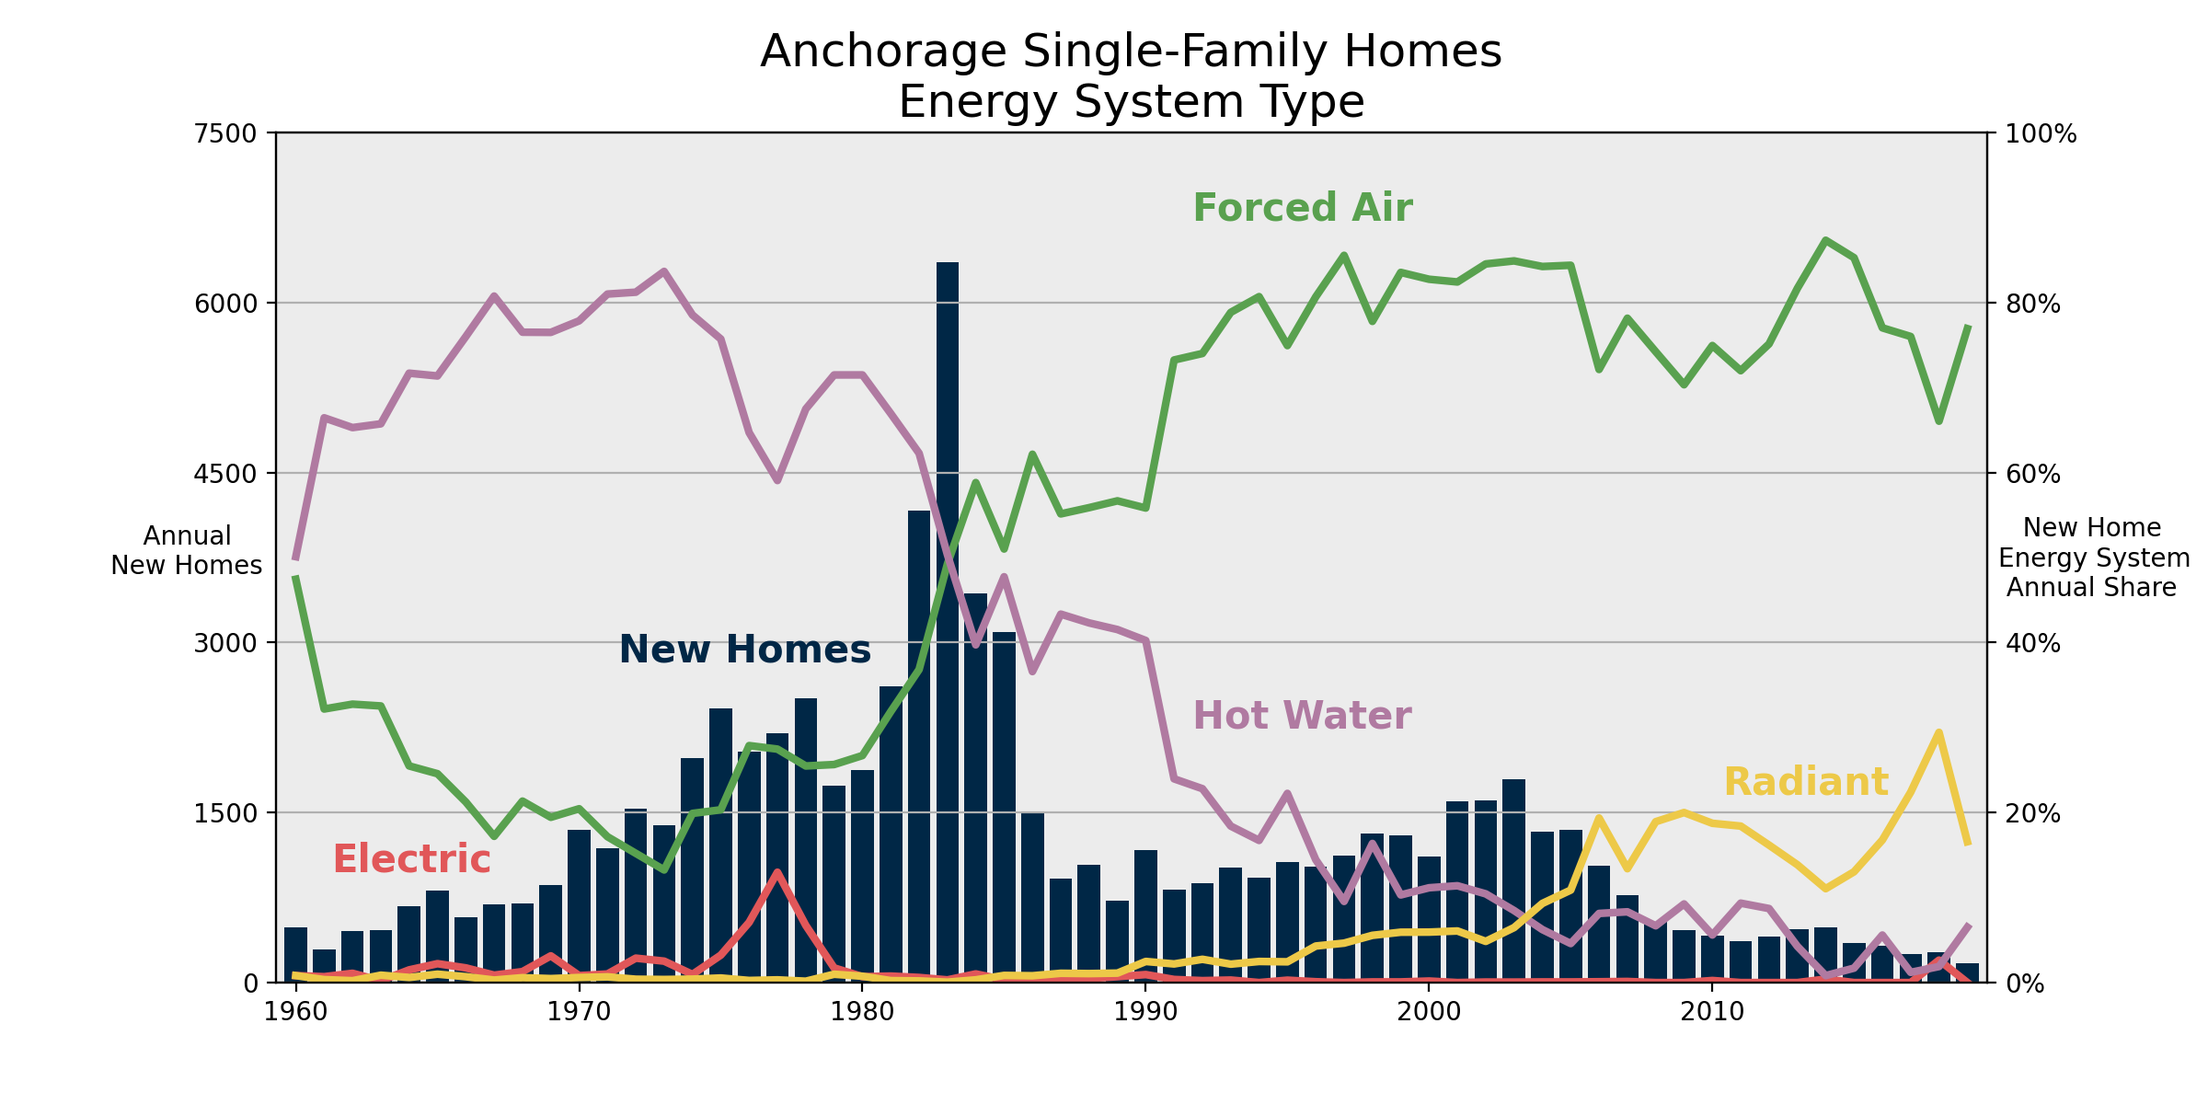
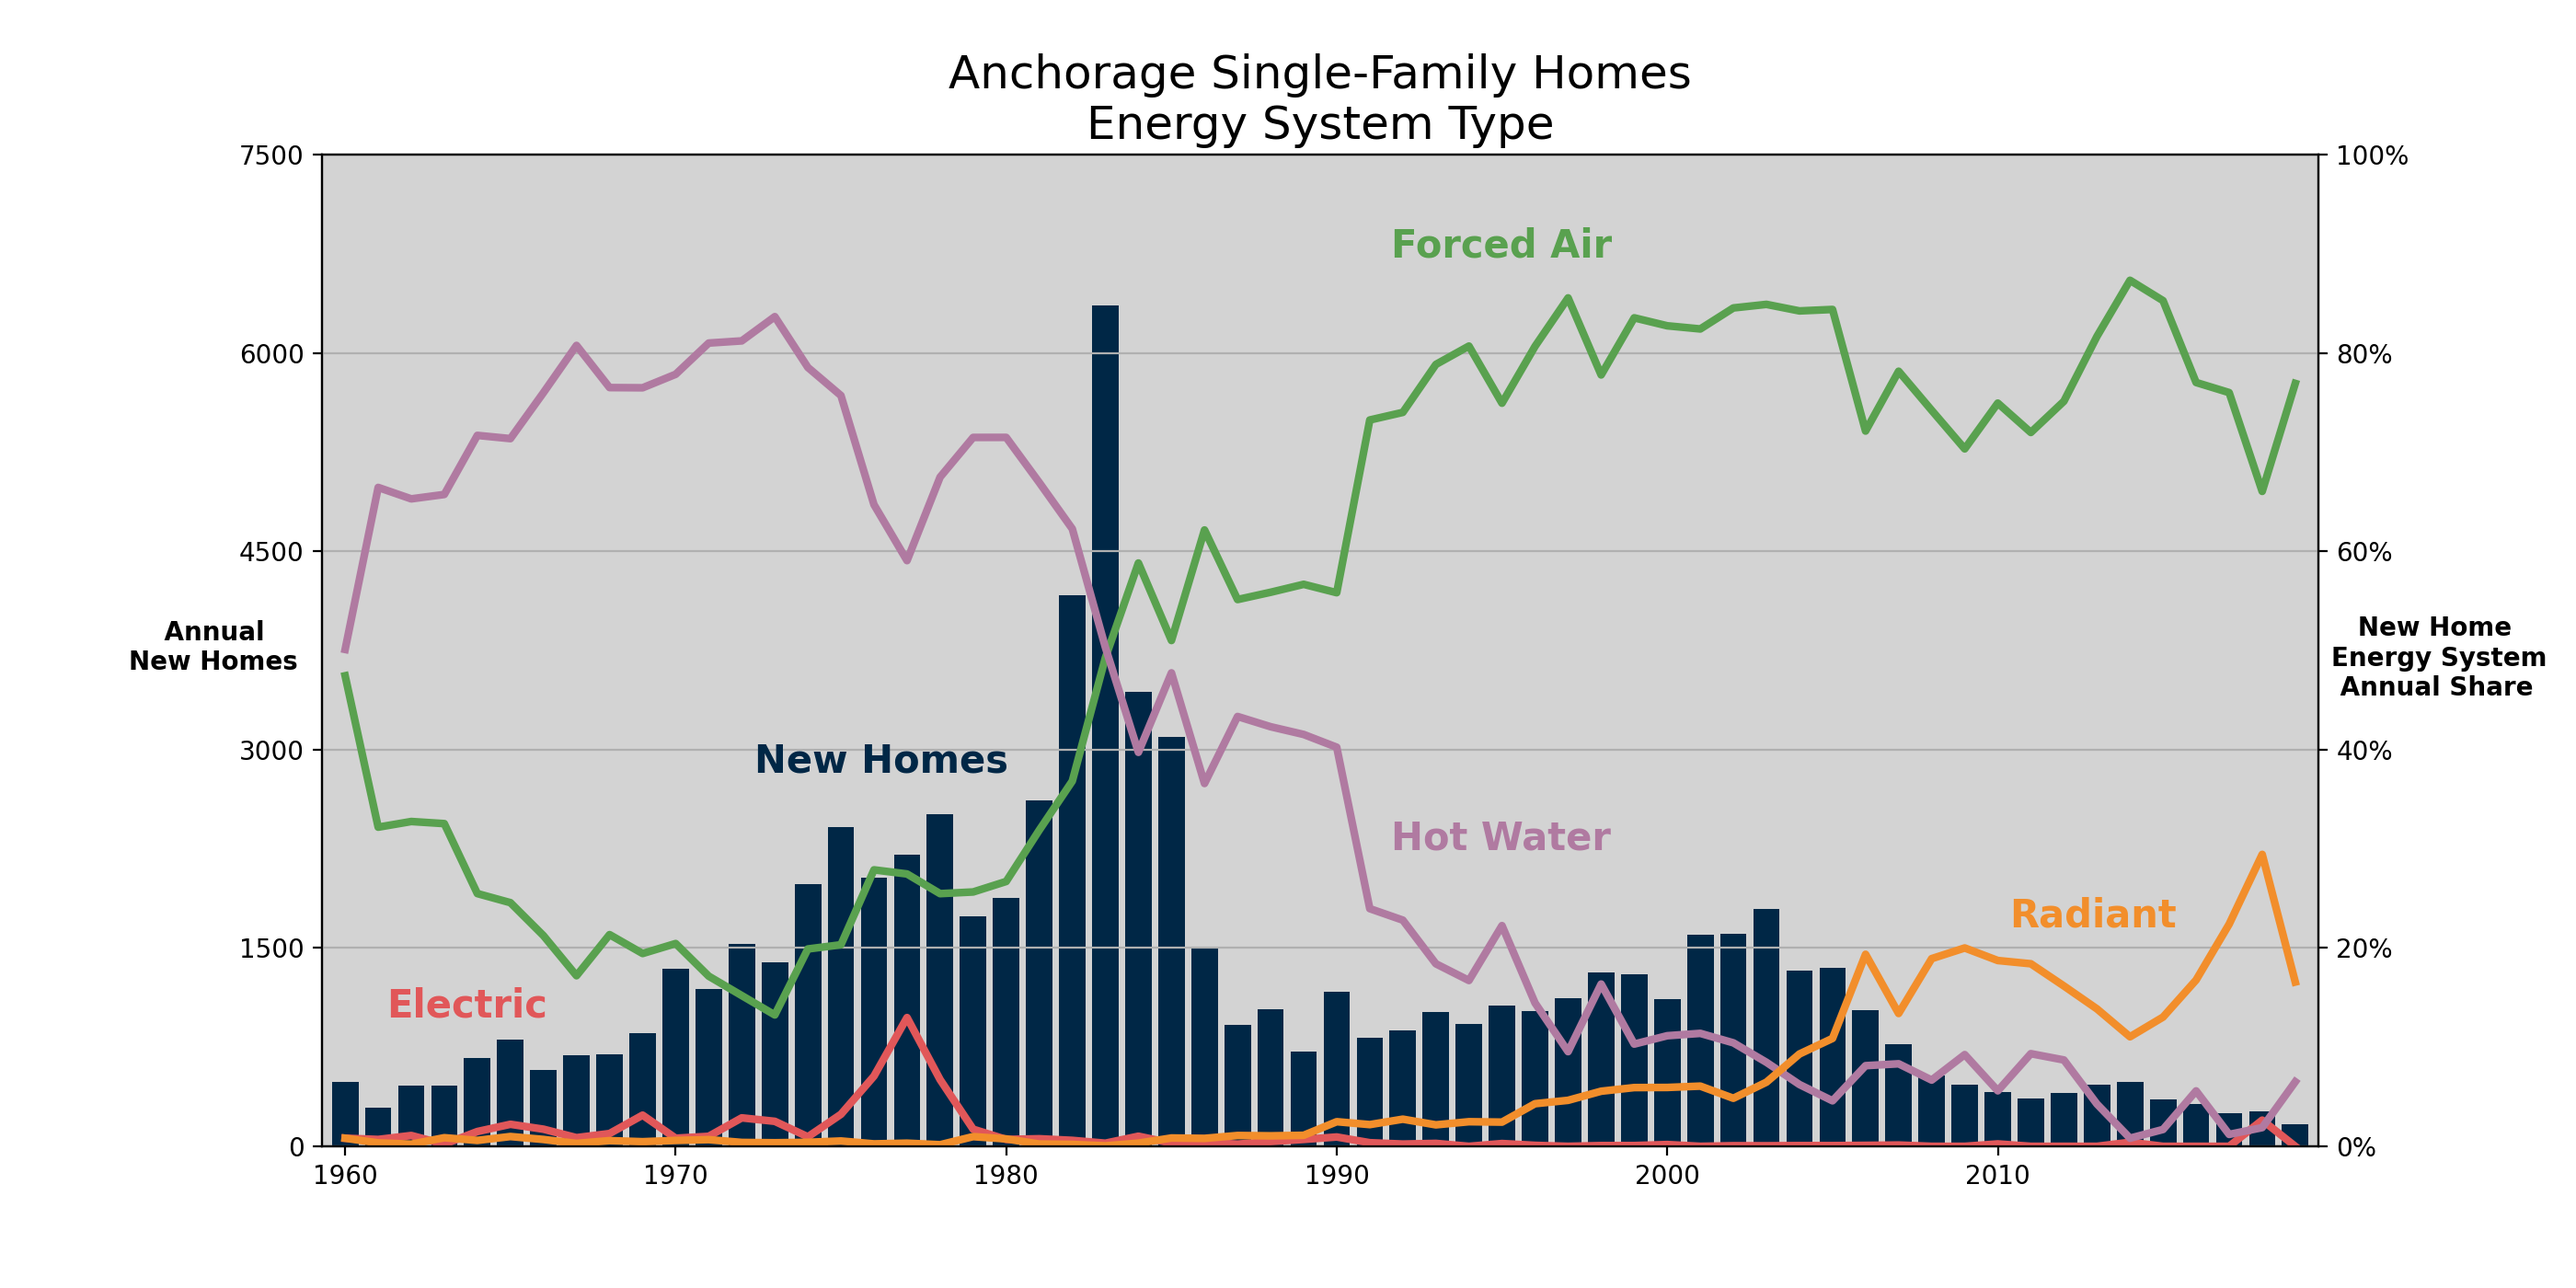
Add files via upload

diff --git a/py/main.py b/py/main.py
@@ -60,11 +60,16 @@ for i in range(len(df)):
 
 # plot year built graph
 
-fig, ax2 = plt.subplots(sharex=True, figsize=(12, 6))
+fig, ax2 = plt.subplots(sharex=True, figsize=(14, 7))
 
 
 linewidth = 3
 m_size = 15
+l_size = 12
+# gray = '#a9a9a9'
+# gray = '#ECECEC'
+# gray = '#c0c0c0'
+gray = '#d3d3d3'
 
 colors = ['#e15759', '#f28e2b', '#edc948',
           '#59a14f', '#76b7b2', '#4e79a7', '#b07aa1']
@@ -77,8 +82,10 @@ ax2.bar(year, count, color='#002746')
 
 ax1 = ax2.twinx()
 
+ax1.set_title(
+    'Anchorage Single-Family Homes\nEnergy System Type', size=18)
 
-ax2.set_facecolor('#ECECEC')
+ax2.set_facecolor(gray)
 ax1.plot(year, elec_count / count, label='Electric',
          color=colors[0], linewidth=linewidth)
 ax1.plot(year, fa_count / count, label='Forced Air',
@@ -86,9 +93,7 @@ ax1.plot(year, fa_count / count, label='Forced Air',
 ax1.plot(year, hw_count / count, label='Hot Water',
          color=colors[6], linewidth=linewidth)
 ax1.plot(year, r_count / count, label='Radiant',
-         color=colors[2], linewidth=linewidth)
-
-ax1.legend()
+         color=colors[1], linewidth=linewidth)
 
 plt.text(0.15, 0.21, 'Electric', weight='bold', size=m_size,
          color=colors[0], transform=plt.gcf().transFigure)
@@ -97,9 +102,12 @@ plt.text(0.54, 0.8, 'Forced Air', weight='bold', size=m_size,
 plt.text(0.54, 0.34, 'Hot Water', weight='bold', size=m_size,
          color=colors[6], transform=plt.gcf().transFigure)
 plt.text(0.78, 0.28, 'Radiant', weight='bold', size=m_size,
-         color=colors[2], transform=plt.gcf().transFigure)
+         color=colors[1], transform=plt.gcf().transFigure)
+plt.text(0.293, 0.4, 'New Homes', weight='bold', size=m_size,
+         color='#002746', transform=plt.gcf().transFigure)
 
 
+# plt.yticks(fontsize=l_size)
 ax2.set_yticks(np.arange(0, 9000, 1500))
 ax1.set_yticklabels(['0%', '20%', '40%', '60%', '80%', '100%'])
 ax1.grid(b=None, which='major', axis='y')
@@ -107,14 +115,14 @@ ax2.set_ylim(0, 7500)
 ax1.set_ylim(0, 1)
 ax2.set_xlim(1960 - 0.7, 2019 + 0.7)
 
-# plt.text(0.01, 0.48, '    Annual\nNew Homes', fontsize=10,
-#          transform=plt.gcf().transFigure)
-# plt.text(0.905, 0.46, '   New Home\nEnergy System\n Annual Share', fontsize=10,
-#          transform=plt.gcf().transFigure)
+plt.text(0.05, 0.48, '    Annual\nNew Homes', weight='bold',
+         transform=plt.gcf().transFigure)
+plt.text(0.905, 0.46, '   New Home\nEnergy System\n Annual Share', weight='bold',
+         transform=plt.gcf().transFigure)
 
-ax2.set_ylabel('Annual\nNew Homes', rotation='horizontal')
-ax1.set_ylabel('New Home\nEnergy System\nAnnual Share',
-               rotation='horizontal', labelpad=10)
+# ax2.set_ylabel('Annual\nNew Homes', rotation='horizontal')
+# ax1.set_ylabel('New Home\nEnergy System\nAnnual Share',
+#                rotation='horizontal', labelpad=10)
 
 plt.show()
 
